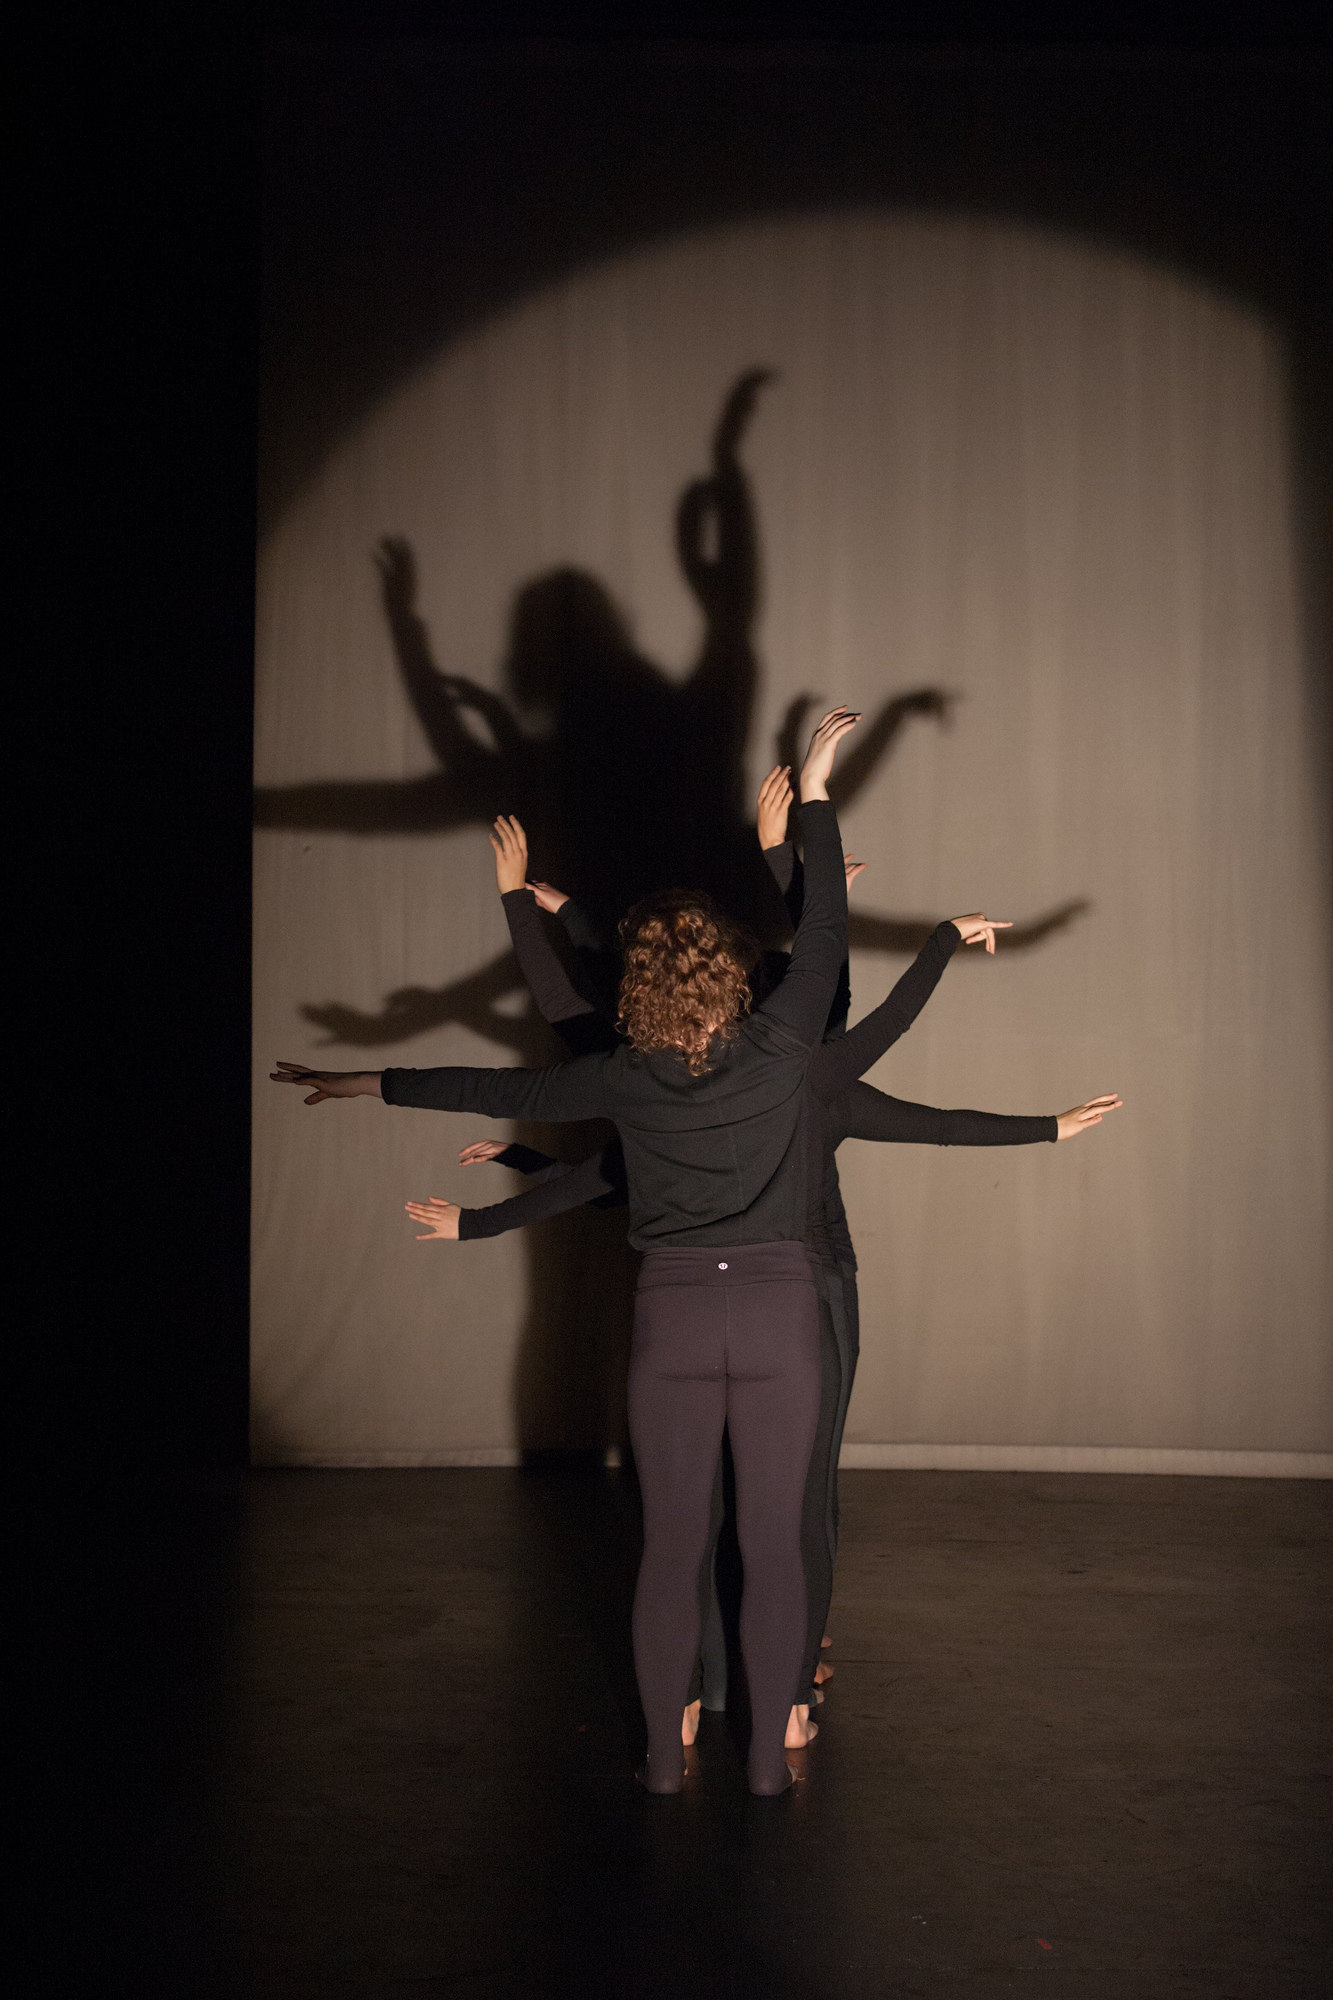
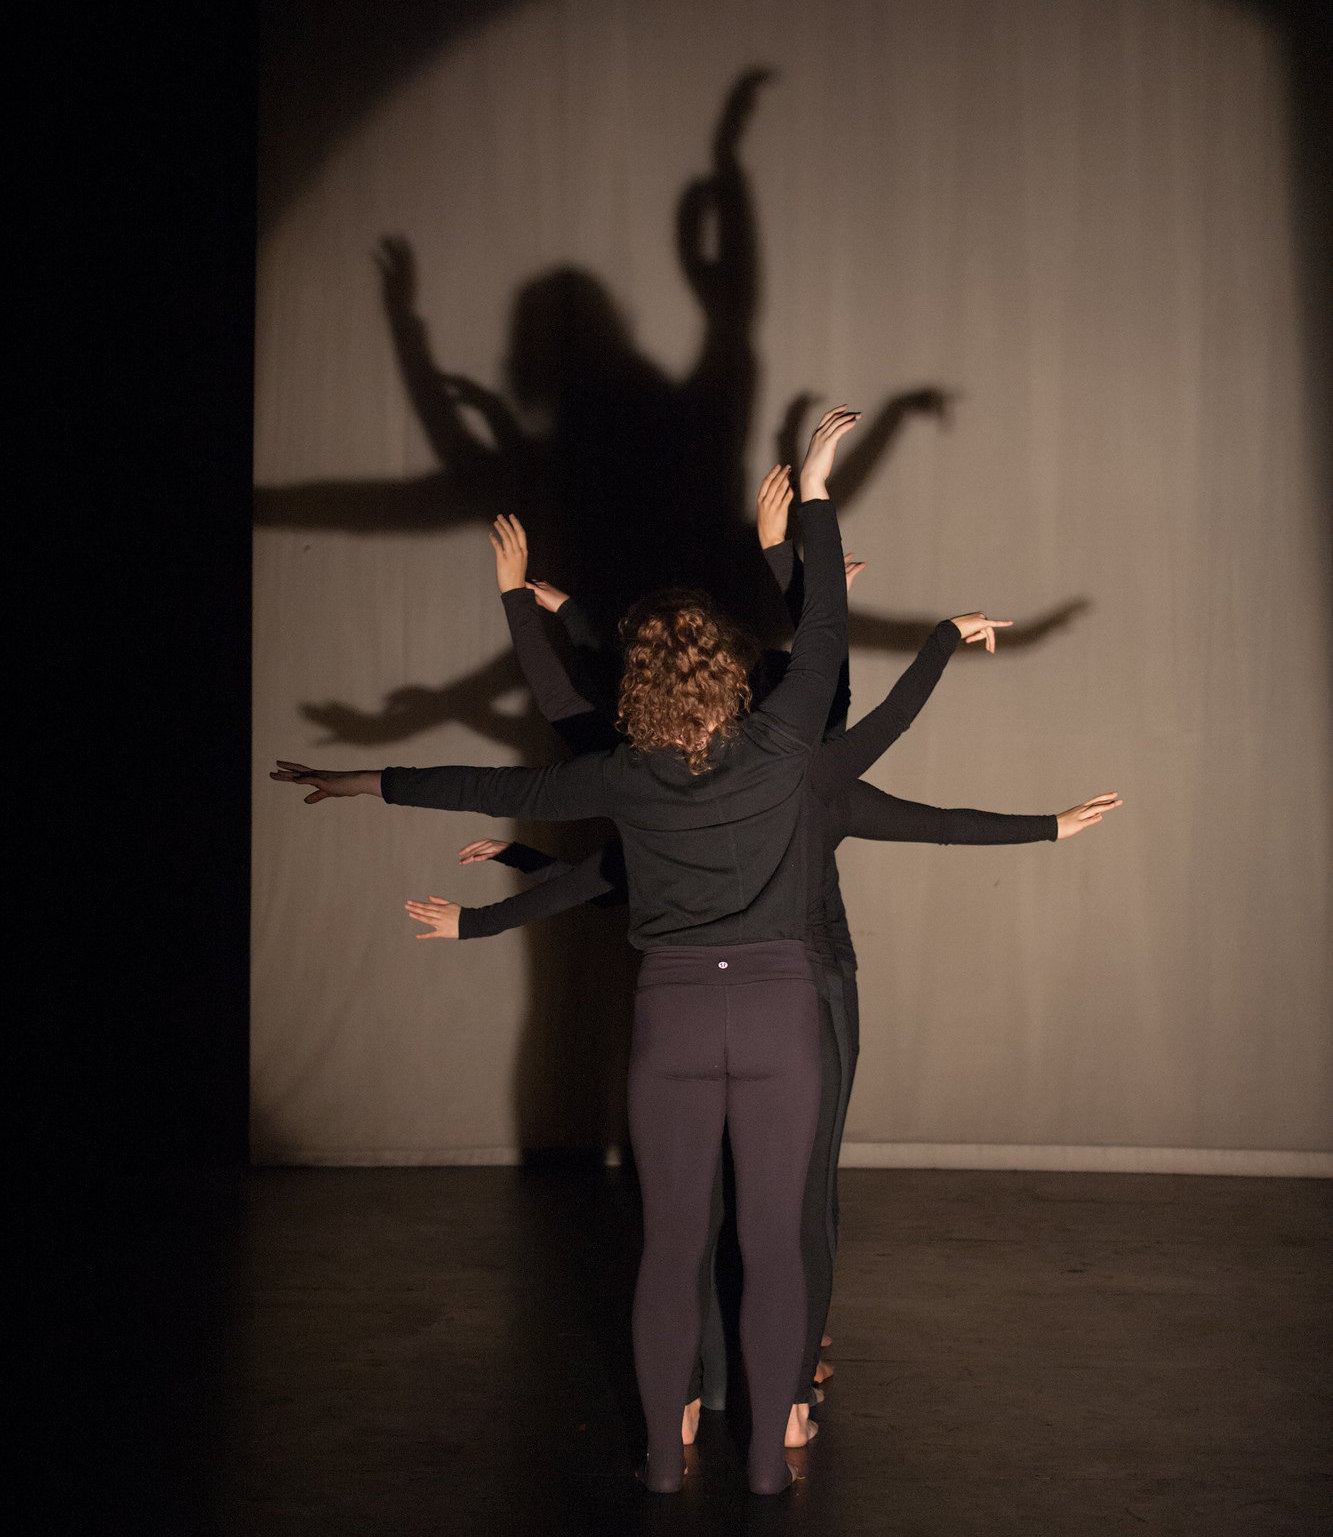
fix tall photos

diff --git a/calendar/index.html b/calendar/index.html
@@ -5,9 +5,14 @@
 	body {
 	    background: #475350;
 	}
-	h1, h2, .current {
+	h1, h2, .current, b {
 		color: rgb(194, 252, 212);
 	}
+	a {
+	    color: #82cbde;
+	    text-decoration: none;
+	}
+
 </style>
 
 <div class="header">
@@ -29,37 +34,35 @@
 
 <h2>RAW presents Steamroller/Zulfikar Ali Bhutto/Jocelyn Reyes </h2>
 
-January 11,12 2018 
-8pm 
-Safehouse Arts 
-
-Jocelyn Reyes presents 'Bits' for the RAW winter edition. Bits is a quirky, humorous modern dance piece which examines interactions between the individual and the group using a fragmented movement language.
+<p><b>8pm January 11, 2018</b> and <b>8pm January 11, 2018</b> at <b>Safehouse Arts</b></p>
 
 
+
+<p>Jocelyn Reyes presents 'Bits' for the RAW winter edition.</p>
+<p>Bits is a quirky, humorous modern dance piece which examines interactions between the individual and the group using a fragmented movement language.</p>
+
+<p><a href="https://tickets.vendini.com/ticket-software.html?t=tix&e=8e73e02e5b740128ea163dc661565395">&#x1F39F; Tickets on Vendini</a></p>
 
 
 <h2>Mbongui Square Festival</h2>
 
-November 10,11,12 2017
-7pm 
-Zaccho Studio 
+<p><b>7pm November 10, 2017</b>, <b>7pm November 11, 2017</b>, and <b>7pm November 12, 2017</b> at <b>Zaccho Studio</b></p>
 
-Jocelyn Reyes presents 'Bits' at MSF. 
+<p>Jocelyn Reyes presents 'Bits' at MSF. </p>
 
+<p>Mbongui Square Festival is an annual festival that celebrates the performing and visual arts. Organized by Kiandanda Dance Theater, the festival gathers dance, music, visual arts and spoken word artists of varied style and artistic choices, from the Bay Area and across the world. </p>
 
-Mbongui  Square Festival is an annual festival that celebrates the performing and visual arts. Organized by Kiandanda Dance Theater, the festival gathers dance, music, visual arts and spoken word artists of varied style and artistic choices, from the Bay Area and across the world. 
-
-www.mbonguifest.org  
+<p> <a href="https://www.eventbrite.com/e/mbongui-square-festival-tickets-37430269945">&#x1F39F; Tickets on EventBrite</a></p>
 
 
 
 <h2>Room 204</h2>
-August 18 2017 
+<p>August 18 2017 </p>
 
-Jocelyn Reyes hosts an evening of sight-specific dance solos and interactive installations in a home. 
+<p>Jocelyn Reyes hosts an evening of sight-specific dance solos and interactive installations in a home. </p>
 
 
-facebook.com/events
+<p><a href="https://www.facebook.com/events/1505384666193810/?acontext=%7B%22source%22%3A5%2C%22page_id_source%22%3A1495790180700649%2C%22action_history%22%3A[%7B%22surface%22%3A%22page%22%2C%22mechanism%22%3A%22main_list%22%2C%22extra_data%22%3A%22%7B%5C%22page_id%5C%22%3A1495790180700649%2C%5C%22tour_id%5C%22%3Anull%7D%22%7D]%2C%22has_source%22%3Atrue%7D">Facebook Event</a></p>
 
 
 </div>

diff --git a/works/index.html b/works/index.html
@@ -12,6 +12,10 @@
 	h1, h2, .current, b {
 		color: rgb(245, 153, 152);
 	}
+	a {
+	    color: #82cbde;
+	    text-decoration: none;
+	}
 	.photos img {
 		max-width: 100%;
 		max-height: 100%;
@@ -57,6 +61,8 @@
 
 	<p>Bits is a quirky, humorous modern dance piece which examines interactions between the individual and the group using a fragmented movement language. </p>
 
+	<p> <a href="https://youtu.be/9VDJAsHKq1Q">&#128279; Video Excerpt</a> </p>
+
 	<div class="info">
 		<p><b>Choreography</b>: Jocelyn Reyes</p>
 		<p><b>Performers</b>: Allyson Adams, Caileigh Knapp, Claudia Mayoss, Michelle Olson, Jocelyn Reyes</p>
@@ -72,7 +78,7 @@
 <h1>Medium Rare (2017)</h1>
 
 	<div class='photos'>
-		<img src="../photos/MediumRare 1.jpg">
+		<img src="../photos/MediumRare-1-revised.jpg">
 		<img src="../photos/MediumRare 2.jpg">
 		<img src="../photos/MediumRare 3.jpg">
 		<img src="../photos/MediumRare 4.jpg">
@@ -132,7 +138,7 @@
 		<img src="../photos/InSelf 1_0174.jpg">
 		<img src="../photos/InSelf 2_JamiShapiro_050.jpg">
 		<img src="../photos/InSelf 3_JamiShapiro_078.jpg">
-		<img src="../photos/InSelf 4_JamiShapiro_070.jpg">
+		<img src="../photos/InSelf-4_JamiShapiro_070_revised.jpg">
 		
 	</div>
 

diff --git a/about/index.html b/about/index.html
@@ -82,7 +82,6 @@
 
 <p>My work is informed by curiosities and inquietudes about cognitive processes and social interactions: building on a foundation of scientific explanations of 'how', I use dance to ponder 'why', creating work that presents alternatives to the 'truths' and assupmtions we take for granted.</p>
 
-<p>Also I like ice cream.</p>
 
 </div>
 <div class="footer">
